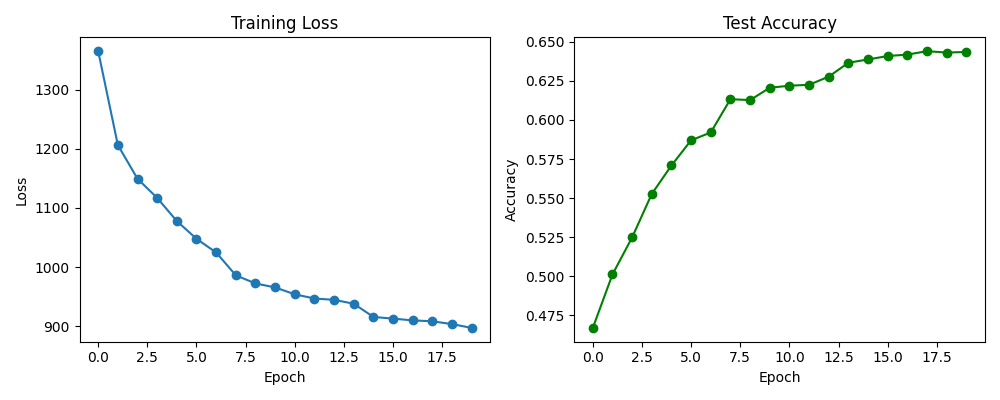
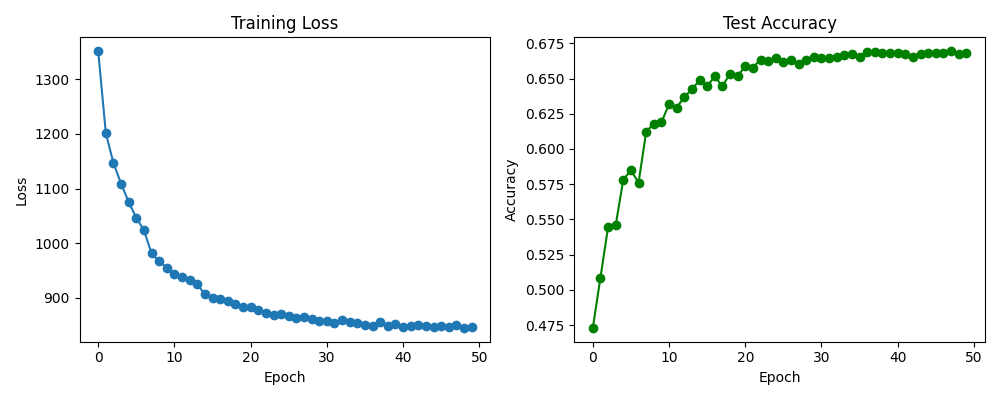
50 epochs

diff --git a/lenet_cifar10_train.py b/lenet_cifar10_train.py
@@ -96,7 +96,7 @@ train_losses = []
 test_accuracies = []
 
 # Training
-for epoch in range(20):
+for epoch in range(50):
     model.train()
     running_loss = 0.0
     for batch_idx, (data, target) in enumerate(train_loader):
